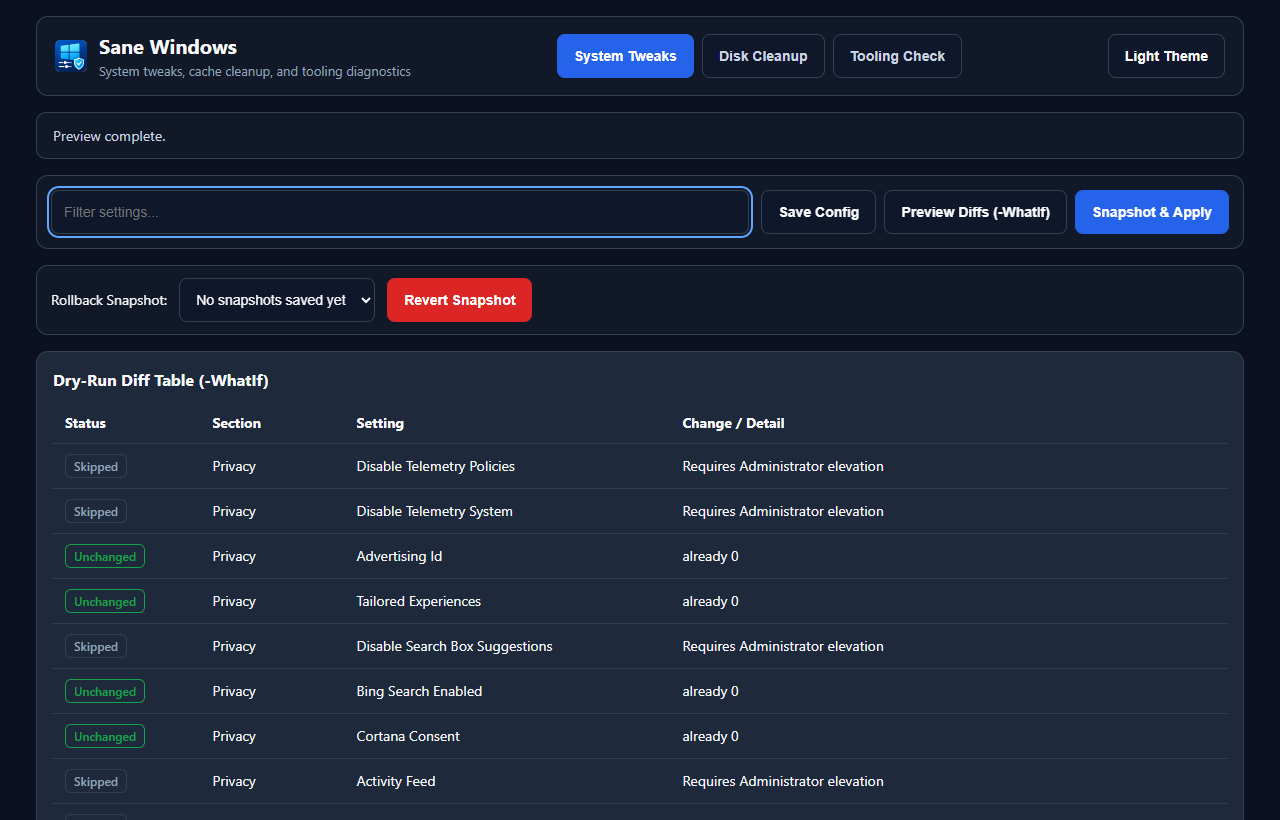
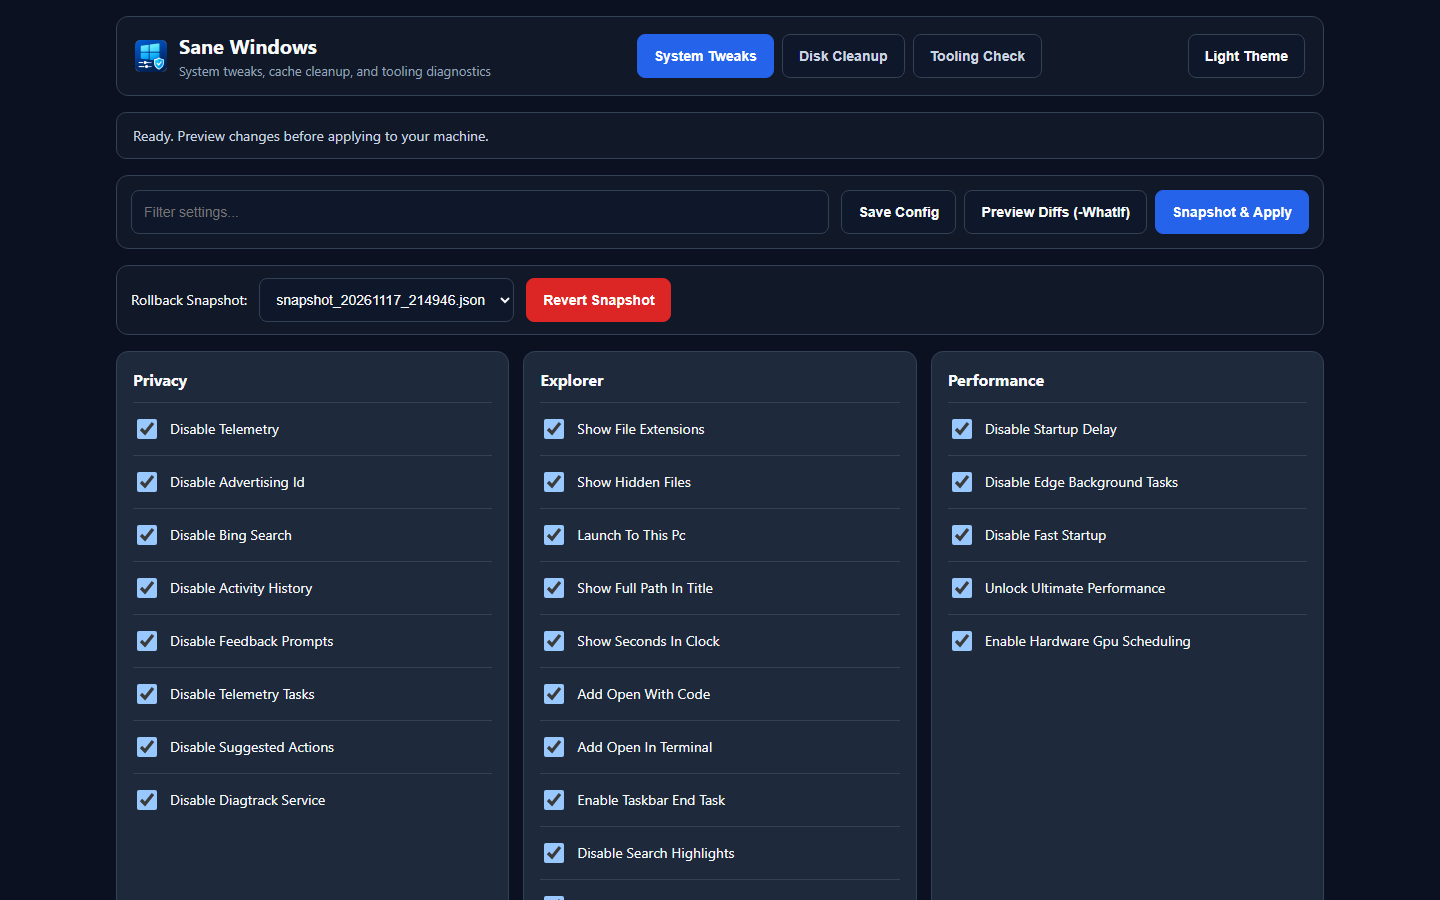
chore: trailing safety section, synced guide label, and CI screenshot sync

diff --git a/scripts/capture_screenshots.py b/scripts/capture_screenshots.py
@@ -1,0 +1,36 @@
+"""Capture the desktop UI screenshot for Sane Windows using the compiled EXE."""
+
+from __future__ import annotations
+
+import argparse
+from pathlib import Path
+import subprocess
+import sys
+
+REPO_DIR = Path(__file__).resolve().parent.parent
+
+
+def capture_screenshot(out_dir: Path, exe_path: Path) -> Path:
+    """Capture 01_main.png from SaneWindows-Windows.exe --screenshot."""
+    resolved_exe = exe_path.expanduser().resolve()
+    if not resolved_exe.is_file():
+        raise FileNotFoundError(f"Executable not found at {resolved_exe}; build it first.")
+    resolved_out = out_dir.expanduser().resolve()
+    resolved_out.mkdir(parents=True, exist_ok=True)
+    target = resolved_out / "01_main.png"
+    subprocess.run([str(resolved_exe), "--screenshot", str(target)], check=True, timeout=60)  # noqa: 32
+    return target
+
+
+def main() -> int:
+    parser = argparse.ArgumentParser(description="Capture Sane Windows UI screenshot.")
+    parser.add_argument("--out-dir", type=Path, default=REPO_DIR / "assets" / "screenshots")
+    parser.add_argument("--exe", type=Path, default=REPO_DIR / "build" / "SaneWindows-Windows.exe")
+    args = parser.parse_args()
+    target = capture_screenshot(args.out_dir, args.exe)
+    sys.stdout.write(f"Saved screenshot to {target}\n")
+    return 0
+
+
+if __name__ == "__main__":
+    raise SystemExit(main())

diff --git a/README.md b/README.md
@@ -46,15 +46,6 @@ Browse release notes on [All Releases](https://github.com/DontKwo/sane-windows/r
 
 ---
 
-## Safety & Disclaimers
-
-- **System Modification Warning**: Sane Windows modifies Windows Registry keys, services, File Explorer behavior, and system caches. Always run a dry-run preview first and keep rollback snapshots.
-- **Official `main` Releases Only**: Only download executables from [DontKwo/sane-windows](https://github.com/DontKwo/sane-windows/releases/latest) (`main` branch). Never download forked builds unless you are certain they contain no malware; only the `main` release stream is maintained by the author, and I make no promises.
-- **Windows SmartScreen Warnings**: Because `SaneWindows-Windows.exe` is published independently without a commercial code-signing certificate, Windows SmartScreen will likely flag it as unrecognized or unsafe. Bypassing those prompts is strictly at your own discretion; see [Windows Installation Guide](docs/INSTALLATION.md).
-- **AS-IS Disclaimer**: Provided "AS IS" under the [MIT License](LICENSE) with zero warranty or liability. Use entirely at your own risk.
-
----
-
 ## Documentation
 
 ### User Documentation
@@ -67,10 +58,19 @@ Browse release notes on [All Releases](https://github.com/DontKwo/sane-windows/r
 - [Developer Guide](docs/DEVELOPMENT.md)
 - [Developer uv Installation](docs/UV_INSTALLATION.md)
 
-### AI, Mathematical Proof & Technical Documentation
+### AI & Technical Documentation
 - [AI Agent Rules](AGENTS.md)
 
 ### Legal & Security Policies
 - [Security Policy](SECURITY.md)
 - [Third-Party Notices](THIRD_PARTY_NOTICES.md)
 - [MIT License](LICENSE)
+
+---
+
+## Safety & Disclaimers
+
+- **System Modification Warning**: Sane Windows modifies Windows Registry keys, services, File Explorer behavior, and system caches. Always run a dry-run preview first and keep rollback snapshots.
+- **Official `main` Releases Only**: Only download executables from [DontKwo/sane-windows](https://github.com/DontKwo/sane-windows/releases/latest) (`main` branch). Never download forked builds unless you are certain they contain no malware; only the `main` release stream is maintained by the author, and I make no promises.
+- **Windows SmartScreen Warnings**: Because `SaneWindows-Windows.exe` is published independently without a commercial code-signing certificate, Windows SmartScreen will likely flag it as unrecognized or unsafe. Bypassing those prompts is strictly at your own discretion; see [Windows Installation Guide](docs/INSTALLATION.md).
+- **AS-IS Disclaimer**: Provided "AS IS" under the [MIT License](LICENSE) with zero warranty or liability. Use entirely at your own risk.

diff --git a/docs/INSTALLATION.md b/docs/INSTALLATION.md
@@ -2,13 +2,6 @@
 
 Install and run Sane Windows without manually cloning scripts or running PowerShell commands.
 
-## Safety & Authenticity Warning
-
-- **Official `main` Releases Only**: Download Sane Windows exclusively from [DontKwo/sane-windows Releases](https://github.com/DontKwo/sane-windows/releases/latest).
-- **Fork Warning**: Never download builds from forked repositories unless you have verified the source code yourself and know they do not contain malware. Only official `main` releases are maintained by the author, and I make no promises.
-- **Bypassing Security Prompts**: Because independent open-source executables do not carry paid commercial signing certificates, Windows will warn that the app is unrecognized or potentially unsafe. Bypassing these warnings is strictly at your own discretion, and the software is provided "AS IS" with zero liability.
-- **System Modifications**: Applying registry tweaks or clearing system caches modifies Windows configuration on your device. Preview changes first and use at your own risk.
-
 ---
 
 ## Windows
@@ -22,6 +15,15 @@ Install and run Sane Windows without manually cloning scripts or running PowerSh
 5. Alternative unblock method: Right-click `SaneWindows-Windows.exe` -> **Properties** -> check **Unblock** near the bottom under Security -> click **Apply** and **OK** -> open the file normally.
 
 > Note: Sane Windows targets Windows 10 and Windows 11 exclusively (`Win32NT`). macOS and Linux are not supported.
+
+---
+
+## Safety & Authenticity Warning
+
+- **Official `main` Releases Only**: Download Sane Windows exclusively from [DontKwo/sane-windows Releases](https://github.com/DontKwo/sane-windows/releases/latest).
+- **Fork Warning**: Never download builds from forked repositories unless you have verified the source code yourself and know they do not contain malware. Only official `main` releases are maintained by the author, and I make no promises.
+- **Bypassing Security Prompts**: Because independent open-source executables do not carry paid commercial signing certificates, Windows will warn that the app is unrecognized or potentially unsafe. Bypassing these warnings is strictly at your own discretion, and the software is provided "AS IS" with zero liability.
+- **System Modifications**: Applying registry tweaks or clearing system caches modifies Windows configuration on your device. Preview changes first and use at your own risk.
 
 ---
 

diff --git a/docs/USER_GUIDE.md b/docs/USER_GUIDE.md
@@ -5,7 +5,7 @@ Sane Windows helps you configure Windows 10 and Windows 11 privacy, File Explore
 ## Desktop Application Workflow
 
 1. Launch `SaneWindows-Windows.exe` (see [Windows Installation Guide](INSTALLATION.md) if Microsoft Defender SmartScreen prompts).
-2. **System Tweaks tab**: Review switches loaded from `config.yaml`, click **Preview Changes** for a safe dry-run table, then click **Snapshot & Apply** to save an automatic backup and apply your selections.
+2. **System Tweaks tab**: Review switches loaded from `config.yaml`, click **Preview Diffs (-WhatIf)** for a safe dry-run table, then click **Snapshot & Apply** to save an automatic backup and apply your selections.
 3. **Rollback**: Select any timestamped snapshot in **System Tweaks** and click **Revert Snapshot** to restore previous registry and profile settings.
 4. **Disk Cleanup tab**: Click **Scan Caches** to calculate reclaimable space, set an optional **Min Age (Days)** threshold, and click **Clean Selected** after reviewing the confirmation prompt.
 5. **Tooling Check tab**: Audit installed developer tools (`git`, `uv`, `python`, `pnpm`, `npm`, `cargo`, `docker`, `wsl`) and trigger single-click installs or updates.
